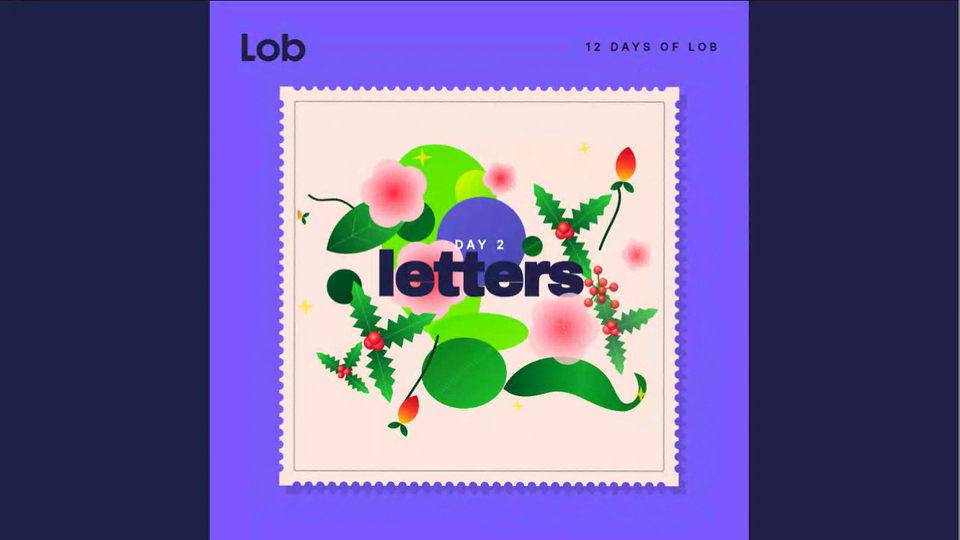
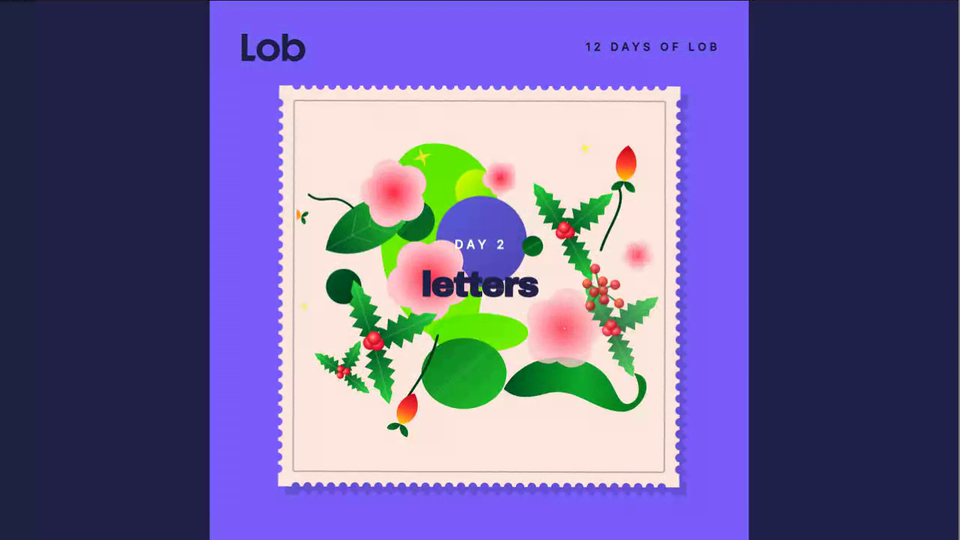
Lob 12 Days Advent: muted green background, one consistent title size
Claude-Session: https://claude.ai/code/session_01AHeBdxfESGkB61WPERPkmT

diff --git a/lob-12-days/index.html b/lob-12-days/index.html
@@ -17,7 +17,7 @@ nav.back a{color:#8d8d8d;text-decoration:none}nav.back a:hover,nav.back a:focus-
 nav.back span{color:#6e6e6e}nav.back b{font-weight:500;color:#fff;overflow:hidden;text-overflow:ellipsis}
 @media(max-width:640px){nav.back{padding:0 16px}nav.back .x{display:none}}
 .wrap{flex:1;min-height:0;display:flex;align-items:center;justify-content:center;padding:12px}
-canvas{display:block;aspect-ratio:1/1;width:min(100%,calc(100dvh - 49px - 120px));max-width:100%;height:auto;background:#27C45A}
+canvas{display:block;aspect-ratio:1/1;width:min(100%,calc(100dvh - 49px - 120px));max-width:100%;height:auto;background:#6BAE86}
 .ctl{flex:none;display:flex;flex-wrap:wrap;gap:10px;align-items:center;justify-content:center;padding:10px 16px 16px}
 .days{display:flex;flex-wrap:wrap;gap:6px;justify-content:center}
 .days button,.ctl .b{min-width:34px;height:34px;padding:0 12px;border-radius:99px;border:1px solid rgba(255,255,255,.25);background:none;cursor:pointer;font-weight:600}
@@ -143,14 +143,14 @@ function sceneDraw(front,gm){const its=items(),ex=gm;
 const LOGO_P=["M113.886 29.4011C113.886 41.5261 104.676 49.2099 94.954 49.2099C89.6912 49.2099 85.0859 46.9541 82.4545 43.1474L80.7204 48.4345H72.5136L72.5119 0.000103459L82.8962 0V15.0943C85.5586 11.7125 89.7868 9.59227 94.881 9.59227C104.822 9.59227 113.886 17.2761 113.886 29.4011ZM81.9429 29.3306C81.9429 35.2521 86.6942 40.0457 92.9074 40.0457C98.9743 40.0457 103.799 35.3226 103.799 29.3306C103.799 23.3386 98.9743 18.6155 92.9074 18.6155C86.6942 18.6155 81.9429 23.4091 81.9429 29.3306Z", "M0.0016883 48.4347L22.5808 48.4345L25.7235 38.7768L10.3813 38.777L10.3796 0.000103459H0L0.0016883 48.4347Z", "M47.5044 49.2099C59.419 49.2099 68.4098 40.3276 68.4098 29.4011C68.4098 18.404 59.2729 9.59227 47.5044 9.59227C35.6629 9.59227 26.6723 18.404 26.6723 29.4011C26.6723 40.3276 35.6629 49.2099 47.5044 49.2099ZM47.5777 39.9752C41.5106 39.9752 36.7595 35.2521 36.7595 29.3306C36.7595 23.4091 41.5106 18.686 47.5777 18.686C53.5713 18.686 58.3956 23.4091 58.3956 29.3306C58.3956 35.2521 53.5713 39.9752 47.5777 39.9752Z"].map(d=>new Path2D(d));
 function logo(px,py,w,col){x.save();x.translate(px,py);const k=w/114;x.scale(k,k);x.fillStyle=col;LOGO_P.forEach(q=>x.fill(q));x.restore()}
 function spark4(r){x.beginPath();for(let i=0;i<8;i++){const a=i*Math.PI/4-Math.PI/2,rr=i%2?r*.28:r;x.lineTo(Math.cos(a)*rr,Math.sin(a)*rr)}x.closePath();x.fillStyle='#FFE81F';x.fill()}
-const NAVY='#1F2149',BGS=['#27C45A','#7A5CFA','#FF8FC8','#FF7A2E'];
+const NAVY='#1F2149',BGS=['#6BAE86','#7A5CFA','#FF8FC8','#FF7A2E'];
 function mixc(a,b,k){const p=h=>[1,3,5].map(i=>parseInt(h.slice(i,i+2),16)),A=p(a),B=p(b);return'rgb('+A.map((v,i)=>Math.round(v+(B[i]-v)*k)).join(',')+')'}
 function stampPath(w,h,n,m){const pw=w/n,ph=h/m;
   const edge=(x0,y0,x1,y1,nx,ny,cnt)=>{for(let i=0;i<cnt;i++){const ax=x0+(x1-x0)*i/cnt,ay=y0+(y1-y0)*i/cnt,bx=x0+(x1-x0)*(i+1)/cnt,by=y0+(y1-y0)*(i+1)/cnt,cx=(ax+bx)/2,cy=(ay+by)/2,rr=Math.hypot(bx-ax,by-ay)/2*.72;
     const ta=Math.atan2(ay-cy,ax-cx),tb=Math.atan2(by-cy,bx-cx),tn=Math.atan2(ny,nx);const cw=((tn-ta+Math.PI*2)%(Math.PI*2))<Math.PI;x.lineTo(ax,ay);x.lineTo(cx+Math.cos(ta)*rr,cy+Math.sin(ta)*rr);x.arc(cx,cy,rr,ta,tb,!cw);x.lineTo(bx,by)}};
   const L=-w/2,R=w/2,T0=-h/2,B=h/2;x.beginPath();x.moveTo(L,T0);x.lineTo(L+pw,T0);edge(L+pw,T0,R-pw,T0,0,1,n-2);x.lineTo(R,T0);x.lineTo(R,T0+ph);edge(R,T0+ph,R,B-ph,-1,0,m-2);x.lineTo(R,B);x.lineTo(R-pw,B);edge(R-pw,B,L+pw,B,0,-1,n-2);x.lineTo(L,B);x.lineTo(L,B-ph);edge(L,B-ph,L,T0+ph,1,0,m-2);x.closePath()}
 function bigText(str,y,maxW,ex){const f='900 200px "Archivo Black","Arial Black",Arial,sans-serif';x.save();x.font=f;x.letterSpacing='-8px';x.textAlign='left';x.textBaseline='alphabetic';
-  let w=x.measureText(str).width,sz=Math.min(124,200*maxW/w);x.font=f.replace('200px',sz+'px');x.letterSpacing=(-.04*sz)+'px';
+  x.letterSpacing='-8px';let sz=124;titles.forEach(t=>{const w=x.measureText(t.toLowerCase()).width;sz=Math.min(sz,200*maxW/w*1.0)});x.font=f.replace('200px',sz+'px');x.letterSpacing=(-.04*sz)+'px';
   const cw=[...str].map(c=>x.measureText(c).width),tot=cw.reduce((a,b)=>a+b,0);let cx=540-tot/2;
   [...str].forEach((c,i)=>{const pp=eob(cl((lt-.5-i*.045)/.5))*ex;x.save();x.globalAlpha=cl(pp*1.4);x.translate(cx,y+(1-pp)*70);x.fillStyle=NAVY;x.fillText(c,0,0);x.restore();cx+=cw[i]});x.restore()}
 function smallText(str,y,size,delay,ex,col){const p=eio(cl((lt-delay)/.4))*ex,ls=size*.3;x.save();x.globalAlpha=p;x.font='700 '+size+'px "Inter",Arial,sans-serif';x.letterSpacing=ls+'px';x.textAlign='center';x.fillStyle=col;x.fillText(str.toUpperCase(),540+ls/2,y+(1-p)*18);x.restore()}
@@ -168,7 +168,7 @@ function draw(){
   x.translate(-540,-572);
   const scene=front=>{x.save();x.translate(540,572);x.scale(.6,.6);x.translate(-750,-590);sceneDraw(front,ex);x.restore()};
   scene(false);
-  bigText(titles[day].toLowerCase(),590,430,ex);
+  bigText(titles[day].toLowerCase(),592,520,ex);
   scene(true);smallText('day '+(day+1),497,24,.4,ex,'#fff');
   x.restore();
   logo(64,66,128,NAVY);
